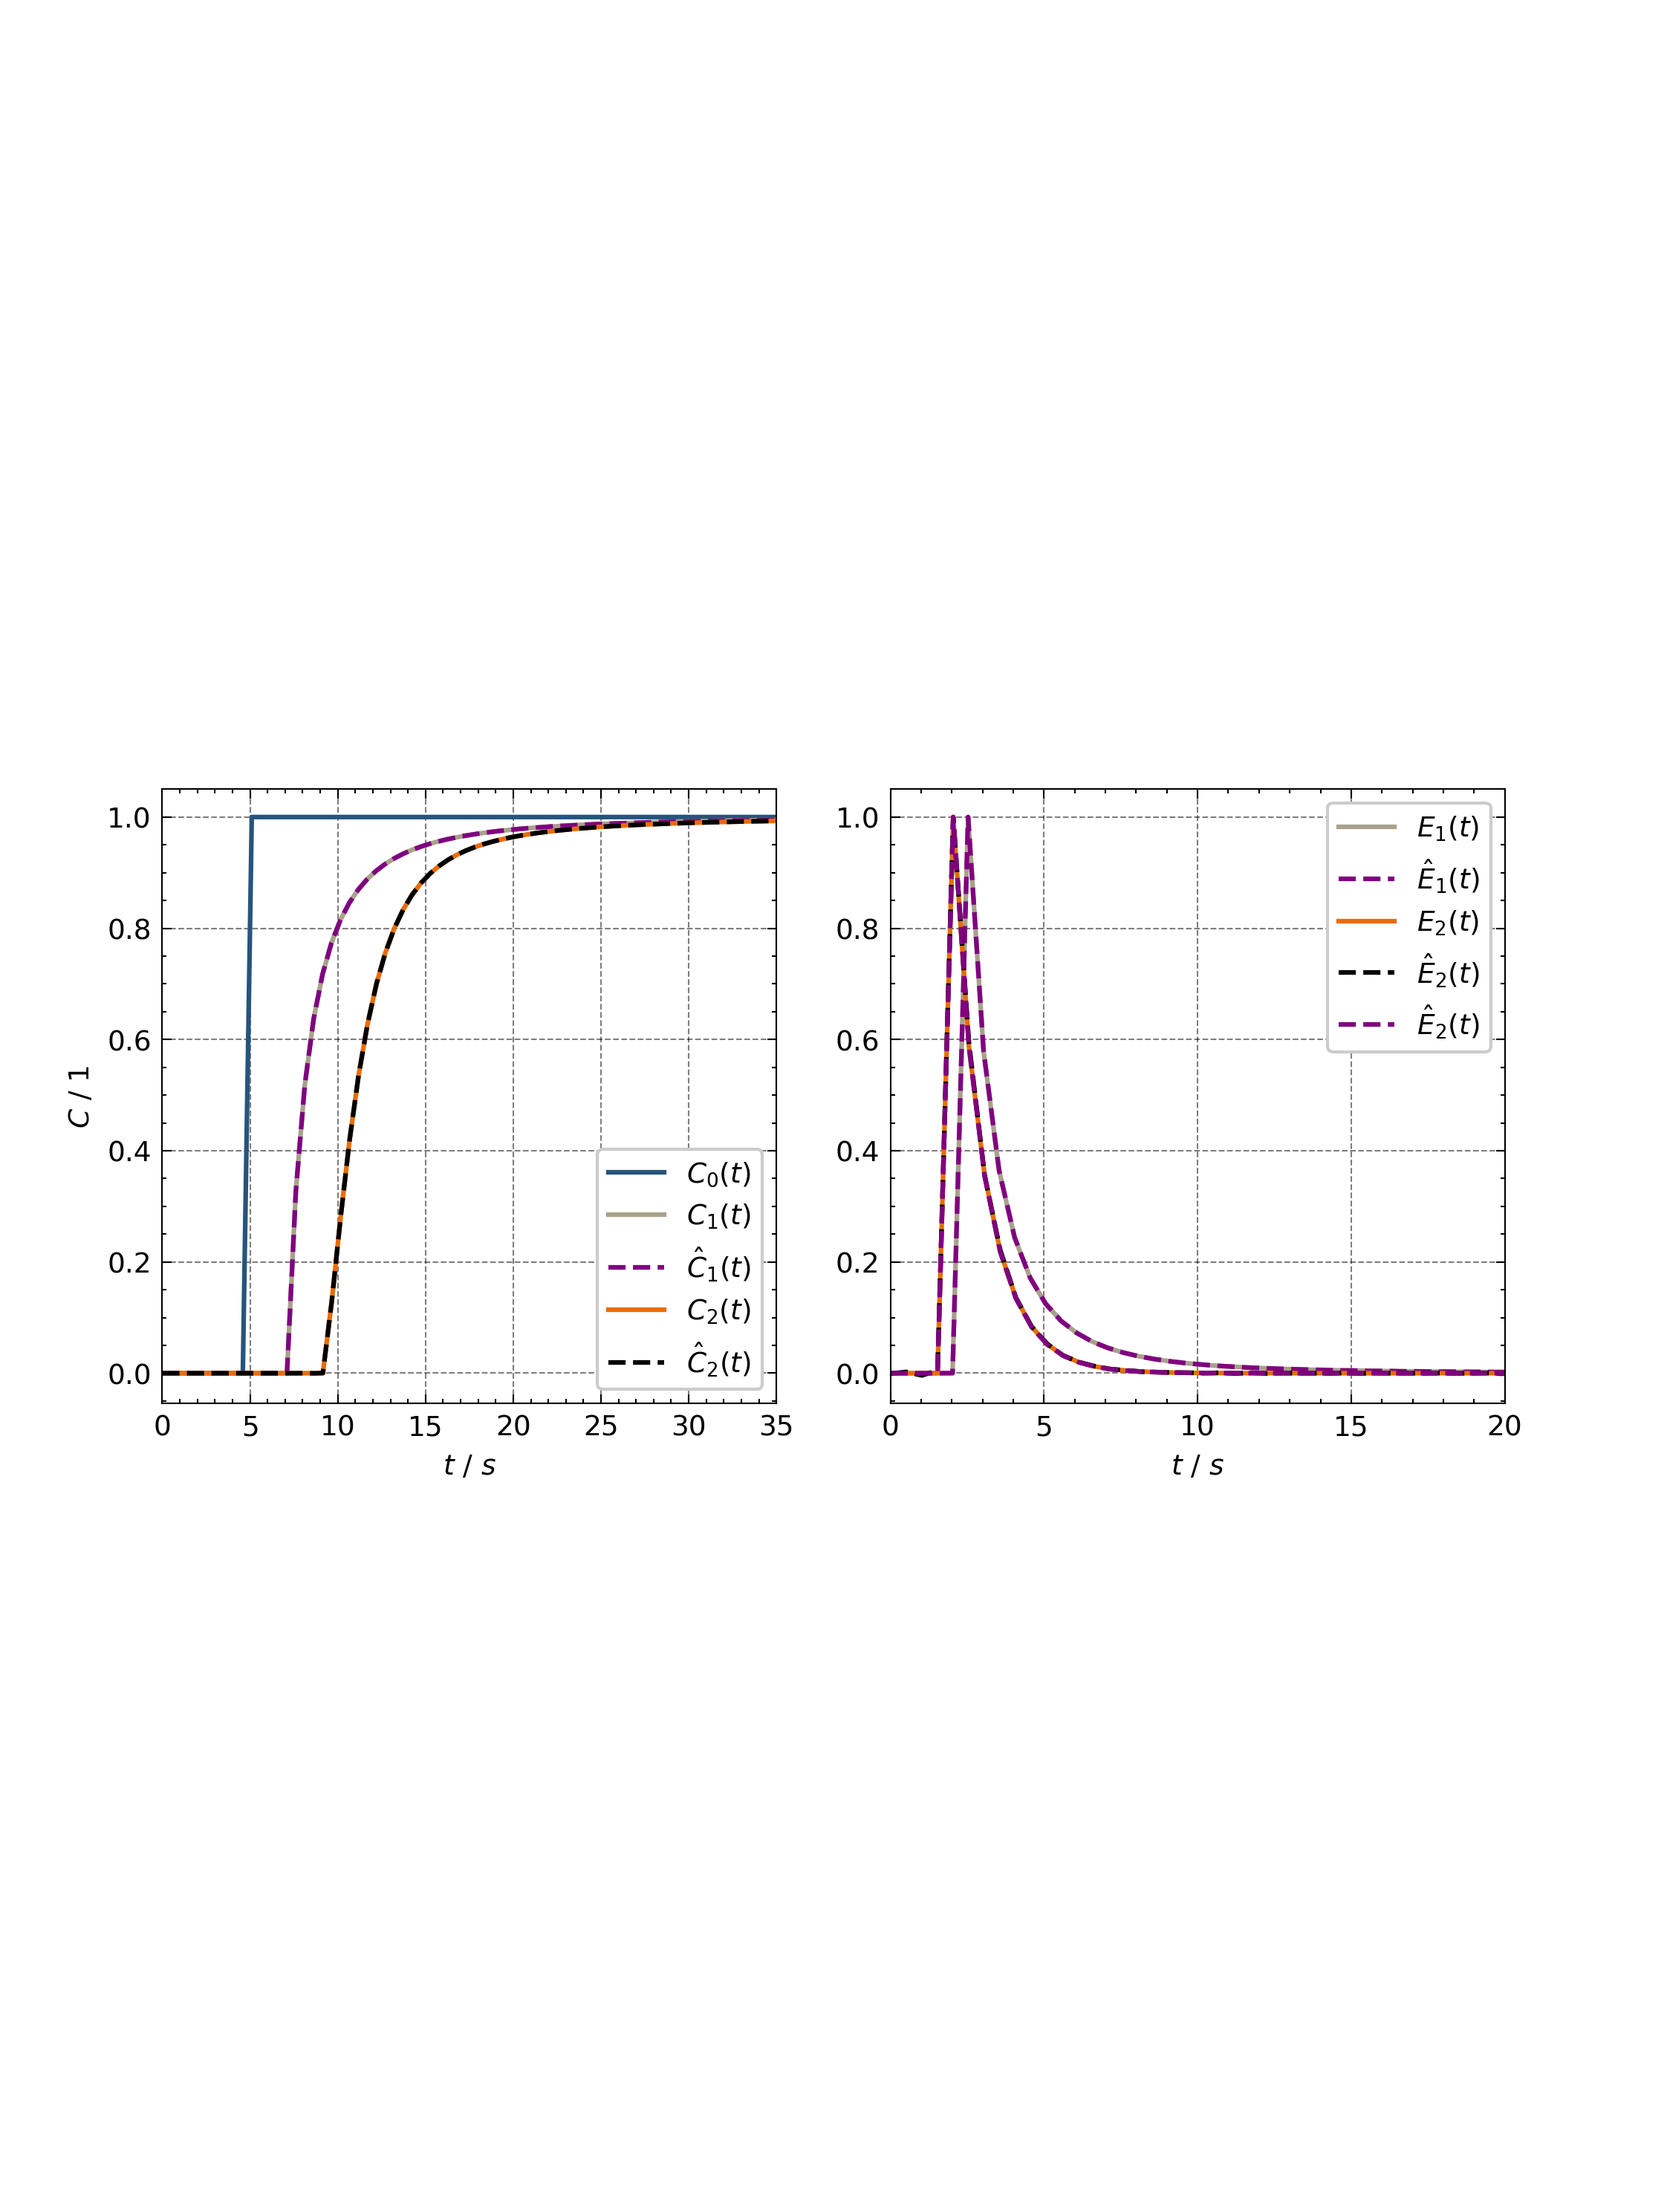
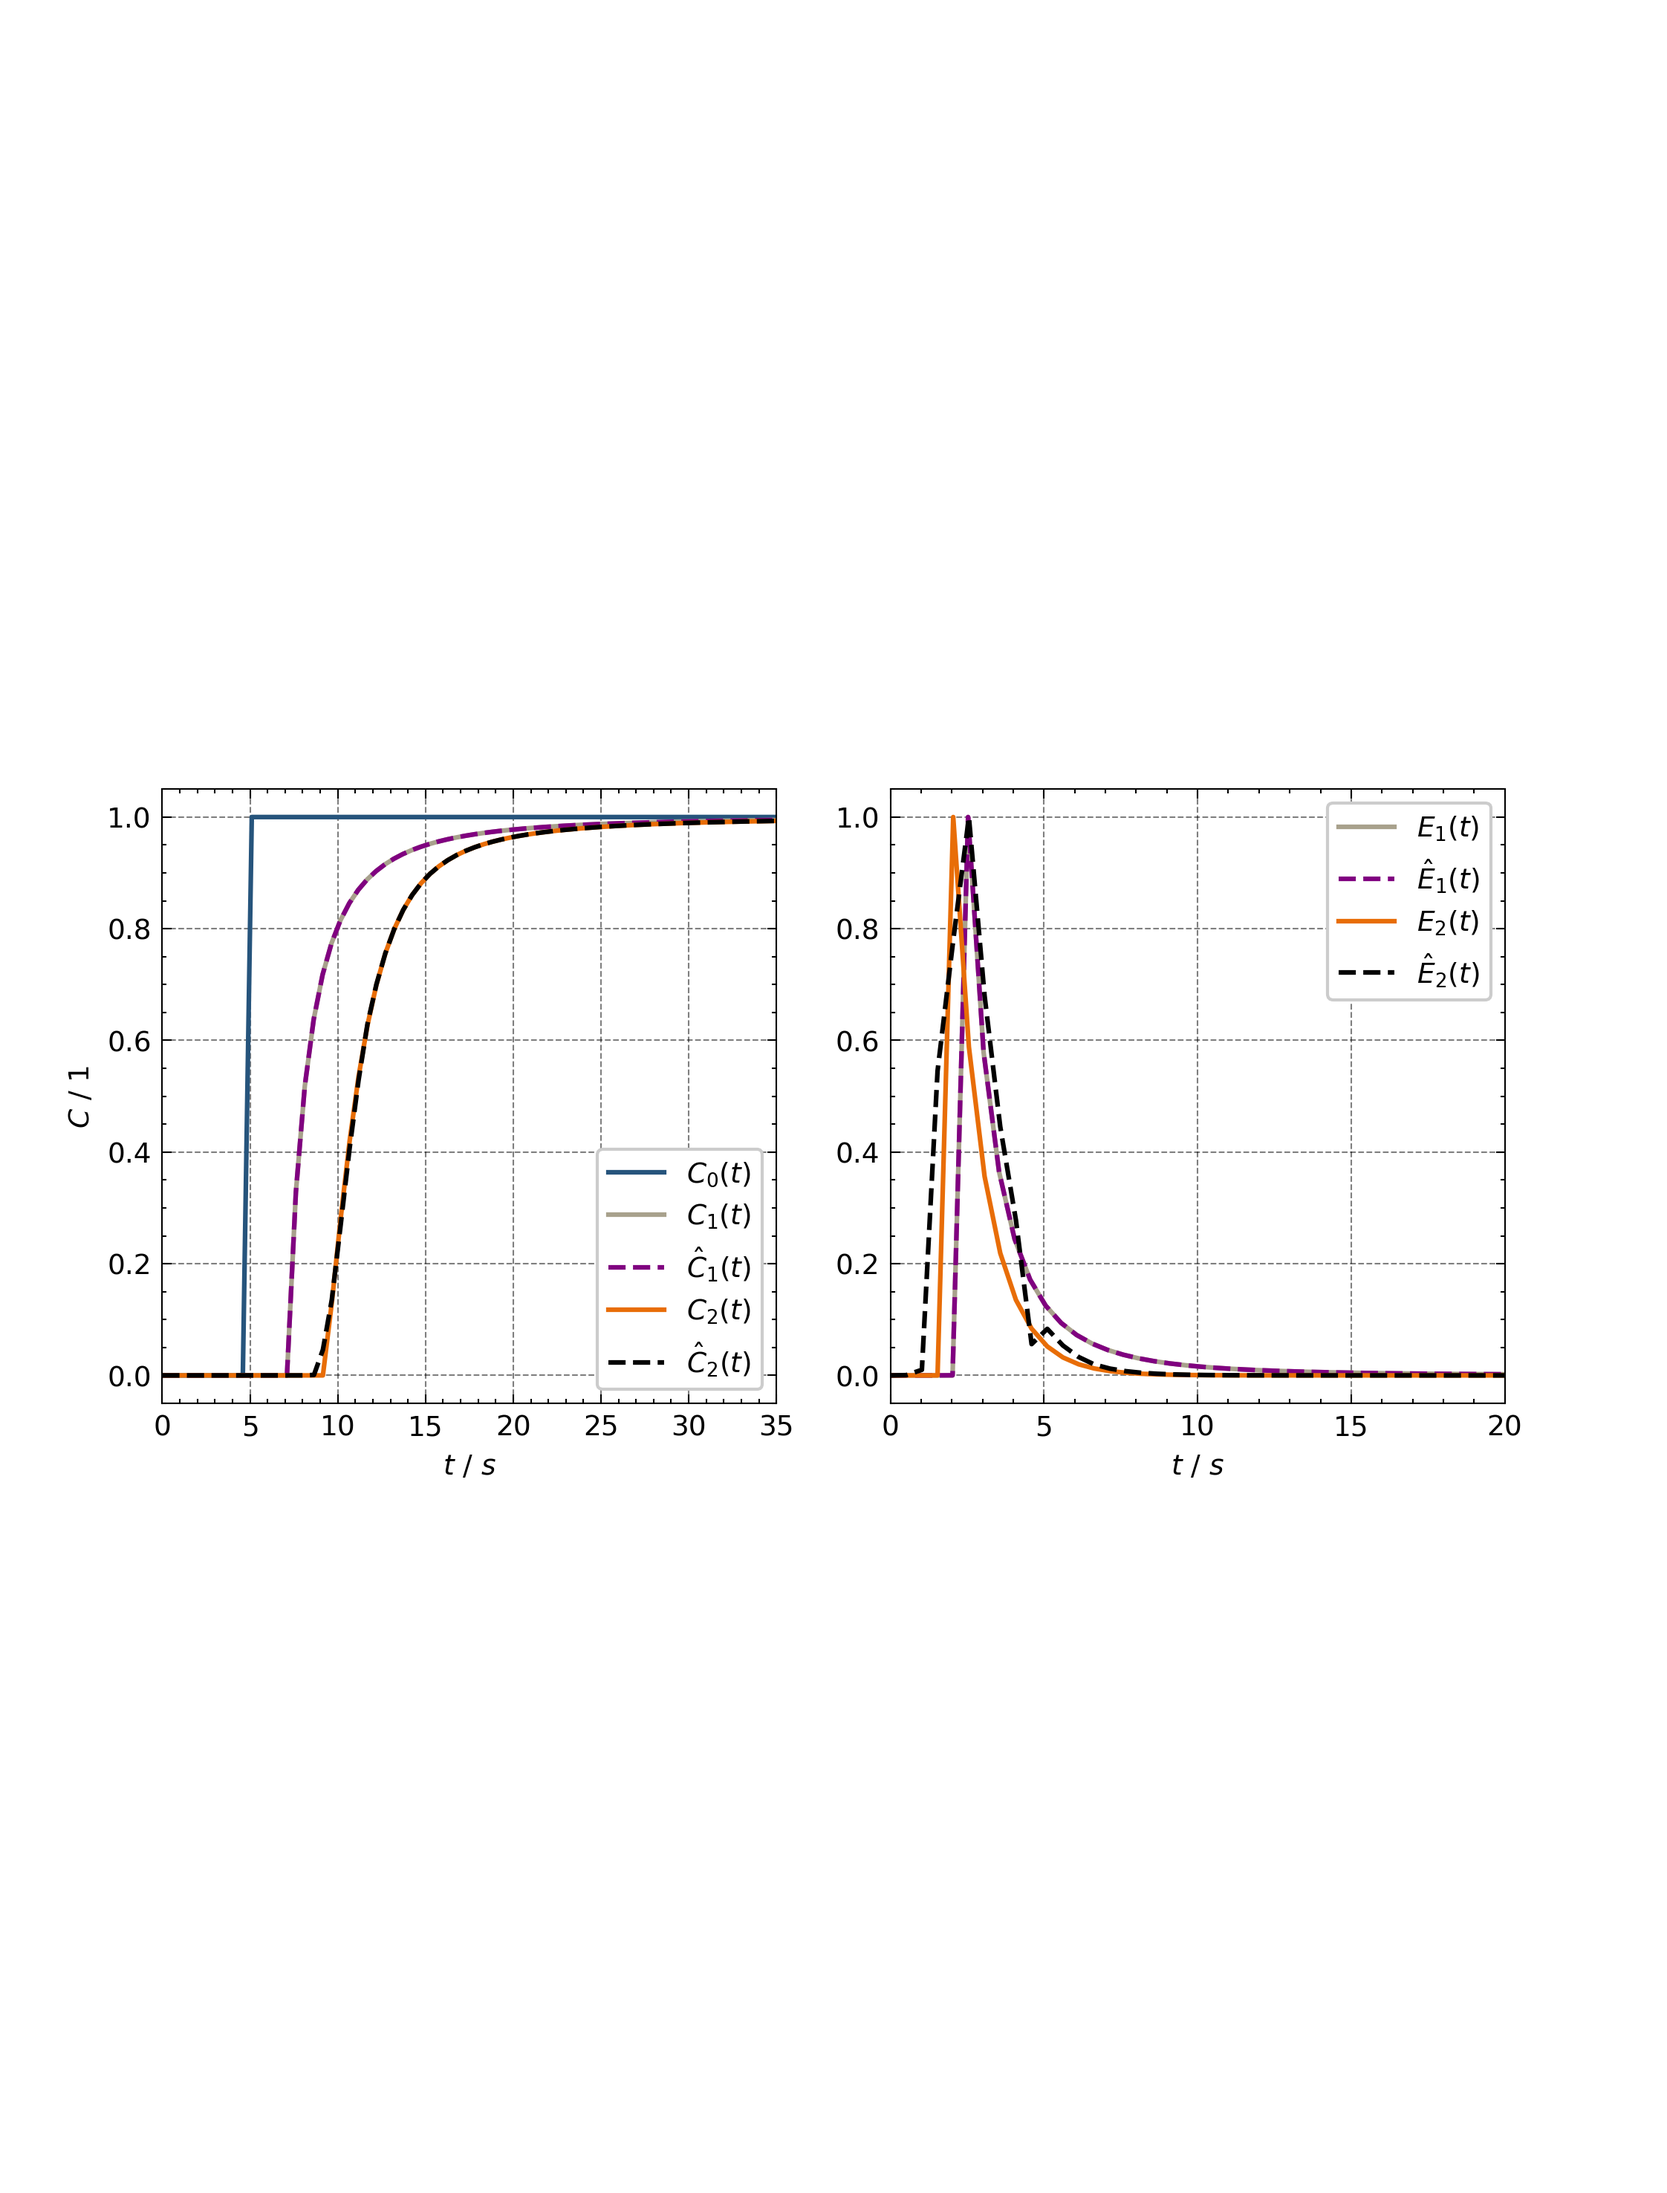
exp_085

diff --git a/Experiments/Preliminary/2_nd_Layer_exp/0001/H_085/Convolution_script_exp_085.py b/Experiments/Preliminary/2_nd_Layer_exp/0001/H_085/Convolution_script_exp_085.py
@@ -9,10 +9,10 @@ from torch.utils.data import TensorDataset, DataLoader
 import lightning.pytorch as pl
 import numpy as np
 import wandb
-module_path = os.path.expanduser("~/Documents/GitHub/nRTD/lib")
+#module_path = os.path.expanduser("~/Documents/GitHub/nRTD/lib")
+#sys.path.append(module_path)
+module_path = r"D:\Tuana\nRTD\lib"
 sys.path.append(module_path)
-# module_path = r"D:\Tuana\nRTD\lib"
-# sys.path.append(module_path)
 from nRTD.rtd_fitting_3 import RTDModule
 from nRTD.rtd_net_4 import RTDNet
 from lightning.pytorch import loggers as pl_loggers
@@ -34,7 +34,7 @@ if wandb.run is not None:
     
 save_dir=r"D:\Tuana\nRTD\Experiments\Preliminary\2_nd_Layer_exp\0001\H_085"
 
-learning_rate=1e-3
+learning_rate=1e-2
 n_in_1, n_out_1, n_out_2, n_e_1, n_e_2 = sp.symbols("n_in_1 n_out_1 n_out_2 n_e_1 n_e_2", positive=True, real=True)
 t_1, t_lam, t_adl, t_e_1, t_e_2 = sp.symbols("t_1, t_lam, t_adl, t_e_1, t_e_2", positive=True, real=True)
 equations = [
@@ -127,10 +127,10 @@ t_conv_list = []
 
 
 for i, file_num in enumerate(file_numbers):
-    t_conv_path = f"/Users/tuanaoyuncu/Documents/GitHub/nRTD/Data/0001/C_001/H_085_C1/S_009_C1/TOA_MGA_20231020_009_{file_num:06d}_t_processed_2nlayer_conc.npy"
-    c_out_path = f"/Users/tuanaoyuncu/Documents/GitHub/nRTD/Data/0001/C_001/H_085_C1/S_009_C1/TOA_MGA_20231020_009_{file_num:06d}_x_processed_2nlayer_conc.npy"
-    # t_conv_path= rf"D:\Tuana\nRTD\Data\0001\C_001\H_085_C1\S_009_C1\TOA_MGA_20231020_009_{file_num:06d}_t_processed_2nlayer_conc.npy"
-    # c_out_path =rf"D:\Tuana\nRTD\Data\0001\C_001\H_085_C1\S_009_C1\TOA_MGA_20231020_009_{file_num:06d}_x_processed_2nlayer_conc.npy"
+    #t_conv_path = f"/Users/tuanaoyuncu/Documents/GitHub/nRTD/Data/0001/C_001/H_085_C1/S_009_C1/TOA_MGA_20231020_009_{file_num:06d}_t_processed_2nlayer_conc.npy"
+    #c_out_path = f"/Users/tuanaoyuncu/Documents/GitHub/nRTD/Data/0001/C_001/H_085_C1/S_009_C1/TOA_MGA_20231020_009_{file_num:06d}_x_processed_2nlayer_conc.npy"
+    t_conv_path= rf"D:\Tuana\nRTD\Data\0001\C_001\H_085_C1\S_009_C1\TOA_MGA_20231020_009_{file_num:06d}_t_processed_2nlayer_conc.npy"
+    c_out_path =rf"D:\Tuana\nRTD\Data\0001\C_001\H_085_C1\S_009_C1\TOA_MGA_20231020_009_{file_num:06d}_x_processed_2nlayer_conc.npy"
     
     print(f"Processing files: {t_conv_path}, {c_out_path}")
 
@@ -196,7 +196,7 @@ wandb_logger = pl_loggers.WandbLogger(
 
 trainer = pl.Trainer(
     accelerator="auto",
-    max_epochs=1,
+    max_epochs=6500,
     logger=wandb_logger, deterministic=True
 )
 trainer.fit(model, dl)
@@ -223,7 +223,7 @@ plt.plot(
     label="Predicted",
     color="red",
 )
-plt.plot(t_E, E, label="E", color="orange")
+plt.plot(t_E, E/E.max(), label="E", color="orange")
 plt.xlim((0, 10))
 plt.legend()
 wandb.finish()
@@ -247,10 +247,10 @@ print("c_in",c_out.shape)
 print(E.shape)
 
 for i, file_num in enumerate(file_numbers):
-    t_conv_path_2 = f"/Users/tuanaoyuncu/Documents/GitHub/nRTD/Data/0001/C_002/H_085_C2/S_012_C2/TOA_MGA_20231020_012_{file_num:06d}_t_processed_conc.npy"
-    c_out_path_2 = f"/Users/tuanaoyuncu/Documents/GitHub/nRTD/Data/0001/C_002/H_085_C2/S_012_C2/TOA_MGA_20231020_012_{file_num:06d}_x_processed_conc.npy"
-    #t_conv_path_2= rf"D:\Tuana\nRTD\Data\0001\C_002\H_085_C2\S_012_C2\TOA_MGA_20231020_012_{file_num:06d}_t_processed_500.npy"
-    # c_out_path_2 =rf"D:\Tuana\nRTD\Data\0001\C_002\H_085_C2\S_012_C2\TOA_MGA_20231020_012_{file_num:06d}_x_processed_500.npy"
+    #t_conv_path_2 = f"/Users/tuanaoyuncu/Documents/GitHub/nRTD/Data/0001/C_002/H_085_C2/S_012_C2/TOA_MGA_20231020_012_{file_num:06d}_t_processed_conc.npy"
+    #c_out_path_2 = f"/Users/tuanaoyuncu/Documents/GitHub/nRTD/Data/0001/C_002/H_085_C2/S_012_C2/TOA_MGA_20231020_012_{file_num:06d}_x_processed_conc.npy"
+    t_conv_path_2= rf"D:\Tuana\nRTD\Data\0001\C_002\H_085_C2\S_012_C2\TOA_MGA_20231020_012_{file_num:06d}_t_processed_conc.npy"
+    c_out_path_2 =rf"D:\Tuana\nRTD\Data\0001\C_002\H_085_C2\S_012_C2\TOA_MGA_20231020_012_{file_num:06d}_x_processed_conc.npy"
 
     print(f"Processing files: {t_conv_path_2}, {c_out_path_2}")
 
@@ -285,7 +285,7 @@ dl_2 = DataLoader(ds_2, batch_size=1, shuffle=True)
 
 trainer = pl.Trainer(
     accelerator="auto",
-    max_epochs=1,
+    max_epochs=2500,
     logger=wandb_logger,
     deterministic=True,
 )

diff --git a/Experiments/Preliminary/2nd_Layer_Adler_Cholete/2bd_Layer_Adler_cholete_draft.py b/Experiments/Preliminary/2nd_Layer_Adler_Cholete/2bd_Layer_Adler_cholete_draft.py
@@ -2,16 +2,16 @@ import matplotlib.pyplot as plt
 import numpy.typing as npt
 import sys
 import os
-module_path = os.path.expanduser("lib")
+module_path = r"D:\Tuana\nRTD\lib"
 sys.path.append(module_path)
 import torch
 from torch.utils.data import TensorDataset, DataLoader
 import lightning.pytorch as pl
 import numpy as np
 import wandb
-module_path = os.path.expanduser("~/Documents/GitHub/nRTD/lib")
-sys.path.append(module_path)
-from nRTD.rtd_fitting_2 import RTDModule
+#module_path = os.path.expanduser("~/Documents/GitHub/nRTD/lib")
+#sys.path.append(module_path)
+from nRTD.rtd_fitting_3 import RTDModule
 from nRTD.rtd_net_4 import RTDNet
 from lightning.pytorch import loggers as pl_loggers
 import os
@@ -29,12 +29,10 @@ coefficients = {
     'tau_p_val': np.array([2]), 
     'beta_val': np.array([0.1]), 
     'alpha_val': 0.2}
-# epoch_1=30000
-# epoch_2=20000
-epoch_1=2
-epoch_2=2
+epoch_1=35000
+epoch_2=900000
 epoch_3=epoch_1
-learning_rate=1e-3
+learning_rate=1e-2
 disc_n_1_out=200
 
 # base_dir = '/Users/tuanaoyuncu/Documents/GitHub/nRTD/Experiments/Preliminary/2_nd_Layer_Convolution'
@@ -574,7 +572,7 @@ axs[0, 0].set_xlim((0, 35))
 axs[0, 1].set_xlim((0, 35)) 
 axs[0, 0].legend(loc="best")
 axs[0, 1].legend(loc="best")
-plt.savefig(os.path.join(base_dir, f"Lam_adl_1.png"), dpi=300)
+plt.savefig(os.path.join(base_dir, f"ad_ch.png"), dpi=300)
 plt.show()
 
 

diff --git a/Experiments/Preliminary/2_nd_Layer_exp/0001/H_185/Convolution_script_exp_185.py b/Experiments/Preliminary/2_nd_Layer_exp/0001/H_185/Convolution_script_exp_185.py
@@ -2,7 +2,8 @@ import matplotlib.pyplot as plt
 import numpy.typing as npt
 import sys
 import os
-module_path = os.path.expanduser("lib")
+
+module_path = r"D:\Tuana\nRTD\lib"
 sys.path.append(module_path)
 import torch
 from torch.utils.data import TensorDataset, DataLoader
@@ -187,7 +188,7 @@ wandb_logger = pl_loggers.WandbLogger(
 
 trainer = pl.Trainer(
     accelerator="auto",
-    max_epochs=2,
+    max_epochs=20000,
     logger=wandb_logger, deterministic=True
 )
 trainer.fit(model, dl)
@@ -275,7 +276,7 @@ dl_2 = DataLoader(ds_2, batch_size=1, shuffle=True)
 
 trainer = pl.Trainer(
     accelerator="auto",
-    max_epochs=2,
+    max_epochs=100000,
     logger=wandb_logger,
     deterministic=True,
 )

diff --git a/Experiments/Preliminary/2_nd_Layer_Convolution/Convolution_Script_w_Disc/test.py b/Experiments/Preliminary/2_nd_Layer_Convolution/Convolution_Script_w_Disc/test.py
@@ -33,11 +33,11 @@ coefficients = {
     'alpha_val': 0.2}
 
 epoch_1=17000
-epoch_2=900000
+epoch_2=270000
 #epoch_1=1
 #epoch_2=2
 learning_rate=1e-2
-learning_rate_2=1e-2
+learning_rate_2=0.005
 
 
 base_dir = r'D:\Tuana\nRTD\Experiments\Preliminary\2_nd_Layer_Convolution'
